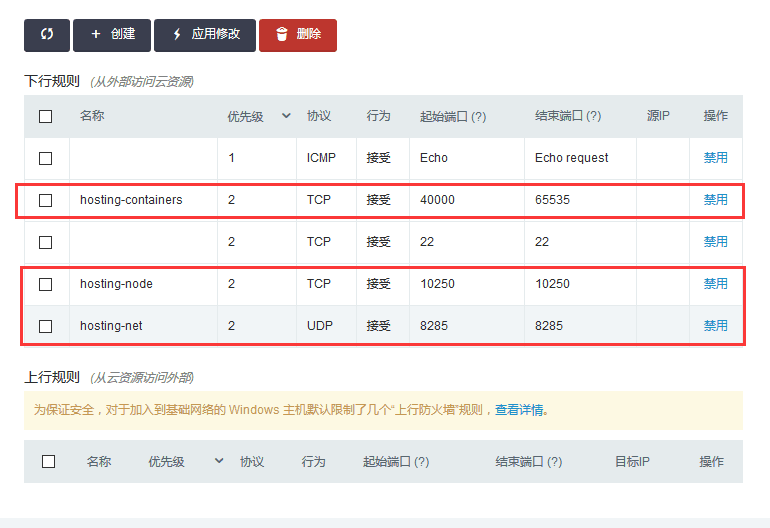
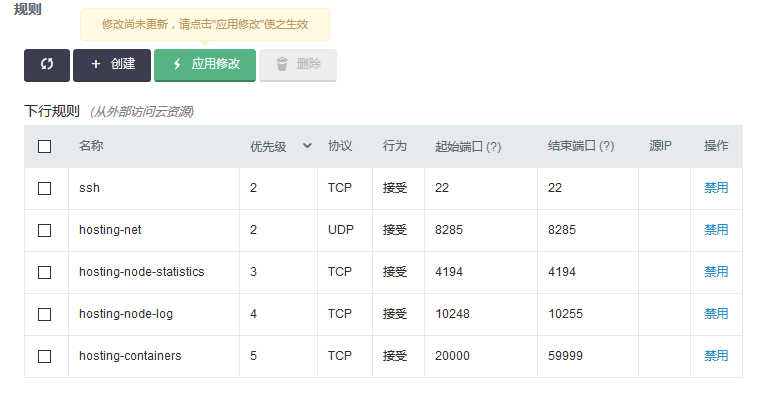
hosting: modify firewall settings

diff --git a/doc/v1/host/faq-question-6.md b/doc/v1/host/faq-question-6.md
@@ -18,7 +18,7 @@
  * __编辑"入站(inbound)"规则。点击"编辑"->"添加规则"。__每条规则有四个字段。"类型"包括tcp、udp、icmp等几大类。ssh对应tcp 22，http对应tcp 80，dns对应udp 53。开通icmp才能对主机进行ping和traceroute操作。"来源"包括任意ip(0.0.0.0/0)、我的ip(检测当前您登陆aws主站的机器出口ip）和自定义ip(指定一个内网/外网网段)
  
 ![host1](/doc/v1/images/host/aws/aws-firewall-5.png)
- * __添加"主机管理"所需规则。__主机管理需要 udp 8285(任意ip), tcp 10250(任意ip)和容器端口（tcp 40000以上，任意ip）。为了便于ssh登陆，这里放开了 tcp 22。
+ * __添加"主机管理"所需规则。__主机管理需要 udp 8285(任意ip 网络通信), tcp 4194 (任意ip 主机和容器运行信息统计)，tcp 20248-10255(任意ip 日志采集)，tcp 16000(任意ip 网络类型探测) 和容器端口（tcp 20000-59999以上，任意ip，也可以在创建容器后按需开通）。为了便于ssh登陆，这里放开了 tcp 22。
  
 ![host1](/doc/v1/images/host/aws/aws-firewall-6.png)
  * __检查防火墙规则。__

diff --git a/doc/v1/host/faq-question-4.md b/doc/v1/host/faq-question-4.md
@@ -1,7 +1,15 @@
 ## 如何设置防火墙规则
 
 由于aws, 青云和ucloud等IaaS平台上的机器默认开启防火墙，通常会屏蔽掉 22/80之外的tcp端口和所有udp端口，导致无法访问私有集群中的容器。这里以aws、青云和ucloud为例，分别介绍如何设置防火墙。
-##### 注：主机管理需要开启 udp 8285和 tcp 10250，以及容器映射到主机上的端口（tcp 40000+）
+
+__注：主机管理需要的端口：__
+* udp 8285(任意ip 网络通信)
+* tcp 4194 (任意ip 主机和容器运行信息统计)
+* tcp 10248-10255(任意ip 日志采集等)
+* tcp 16000(任意ip 网络类型探测) 
+* tcp 20000-59999(任意ip 容器服务端口，可选：对于web等对外提供服务的应用，需要手动设置防火墙)
+* tcp 22 (ssh 可选)
+
 ##### 1. AWS. 点击查看 [如何设置"入站(inbound)"防火墙规则](http://docs.amazonaws.cn/AWSEC2/latest/UserGuide/using-network-security.html#adding-security-group-rule "设置防火墙规则")。设置成功以后，防火墙规则如下
 
 ![host1](/doc/v1/images/host/aws/aws-firewall-7.png)
